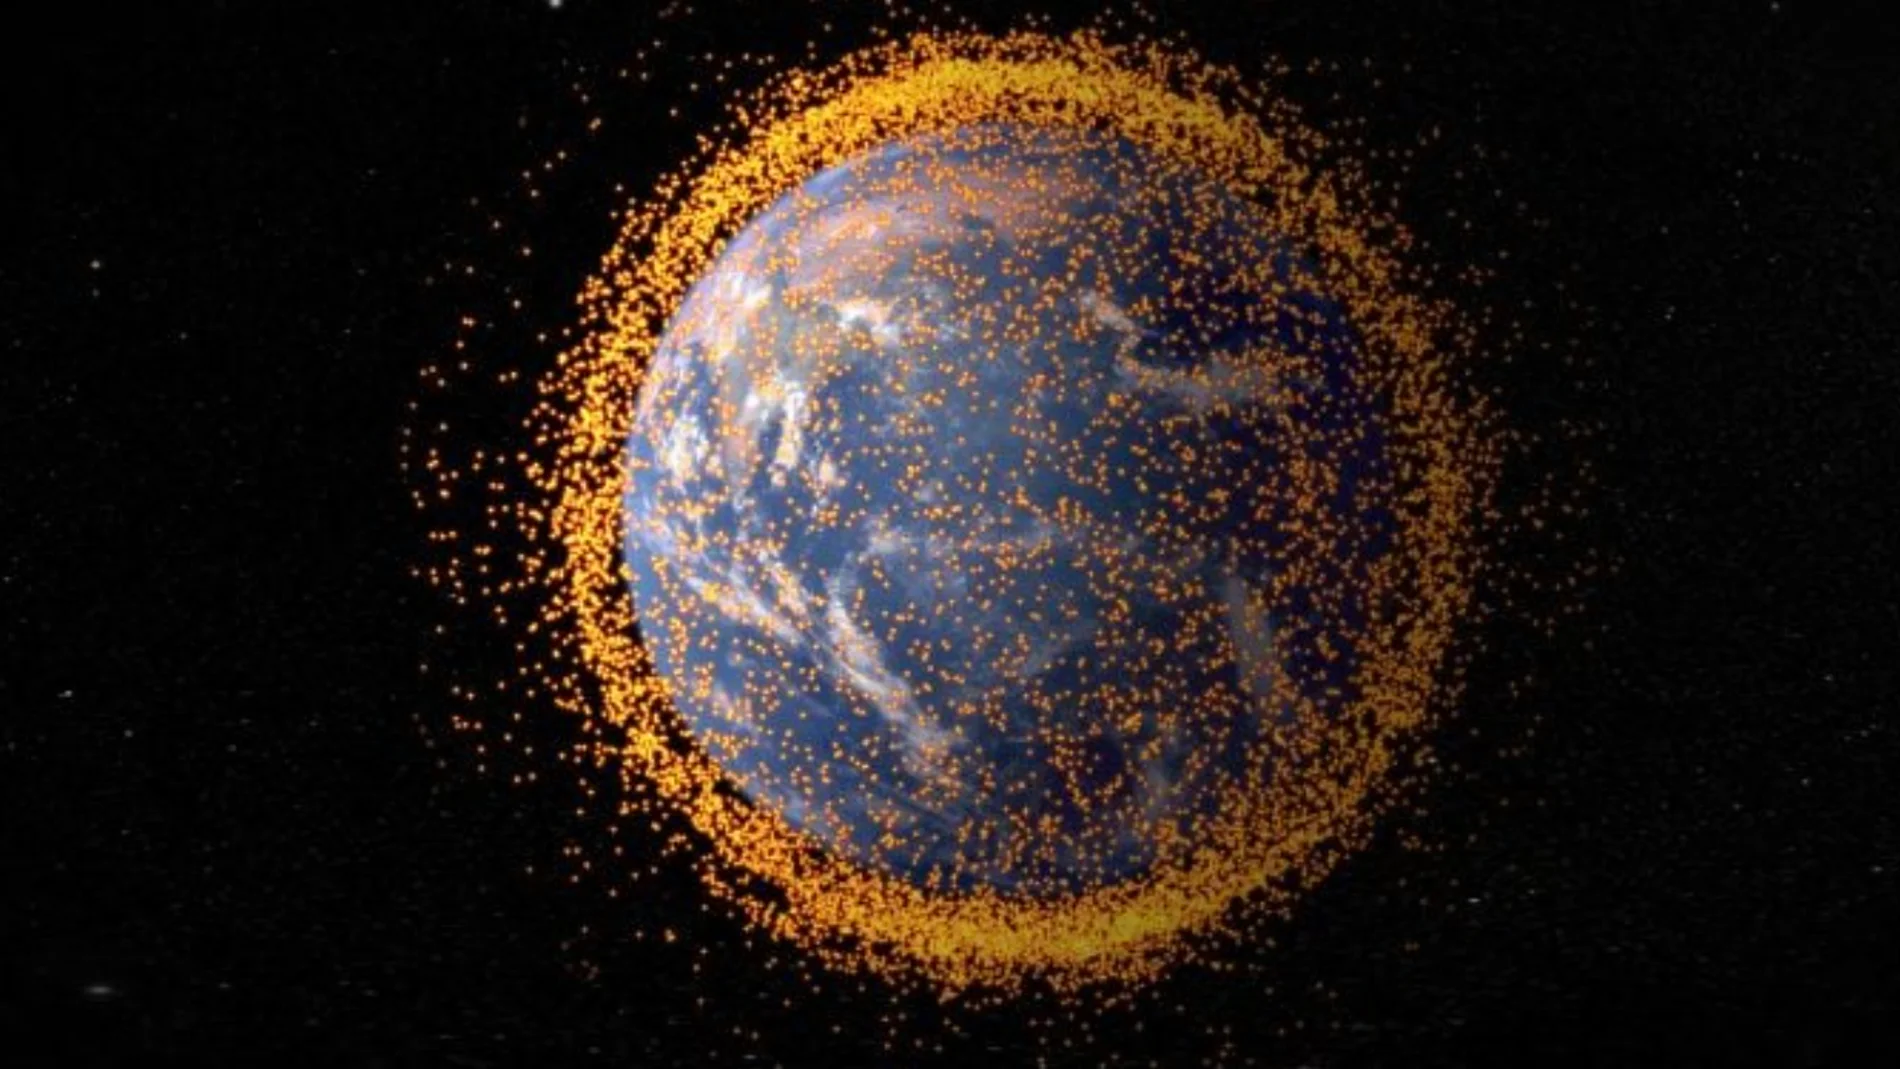
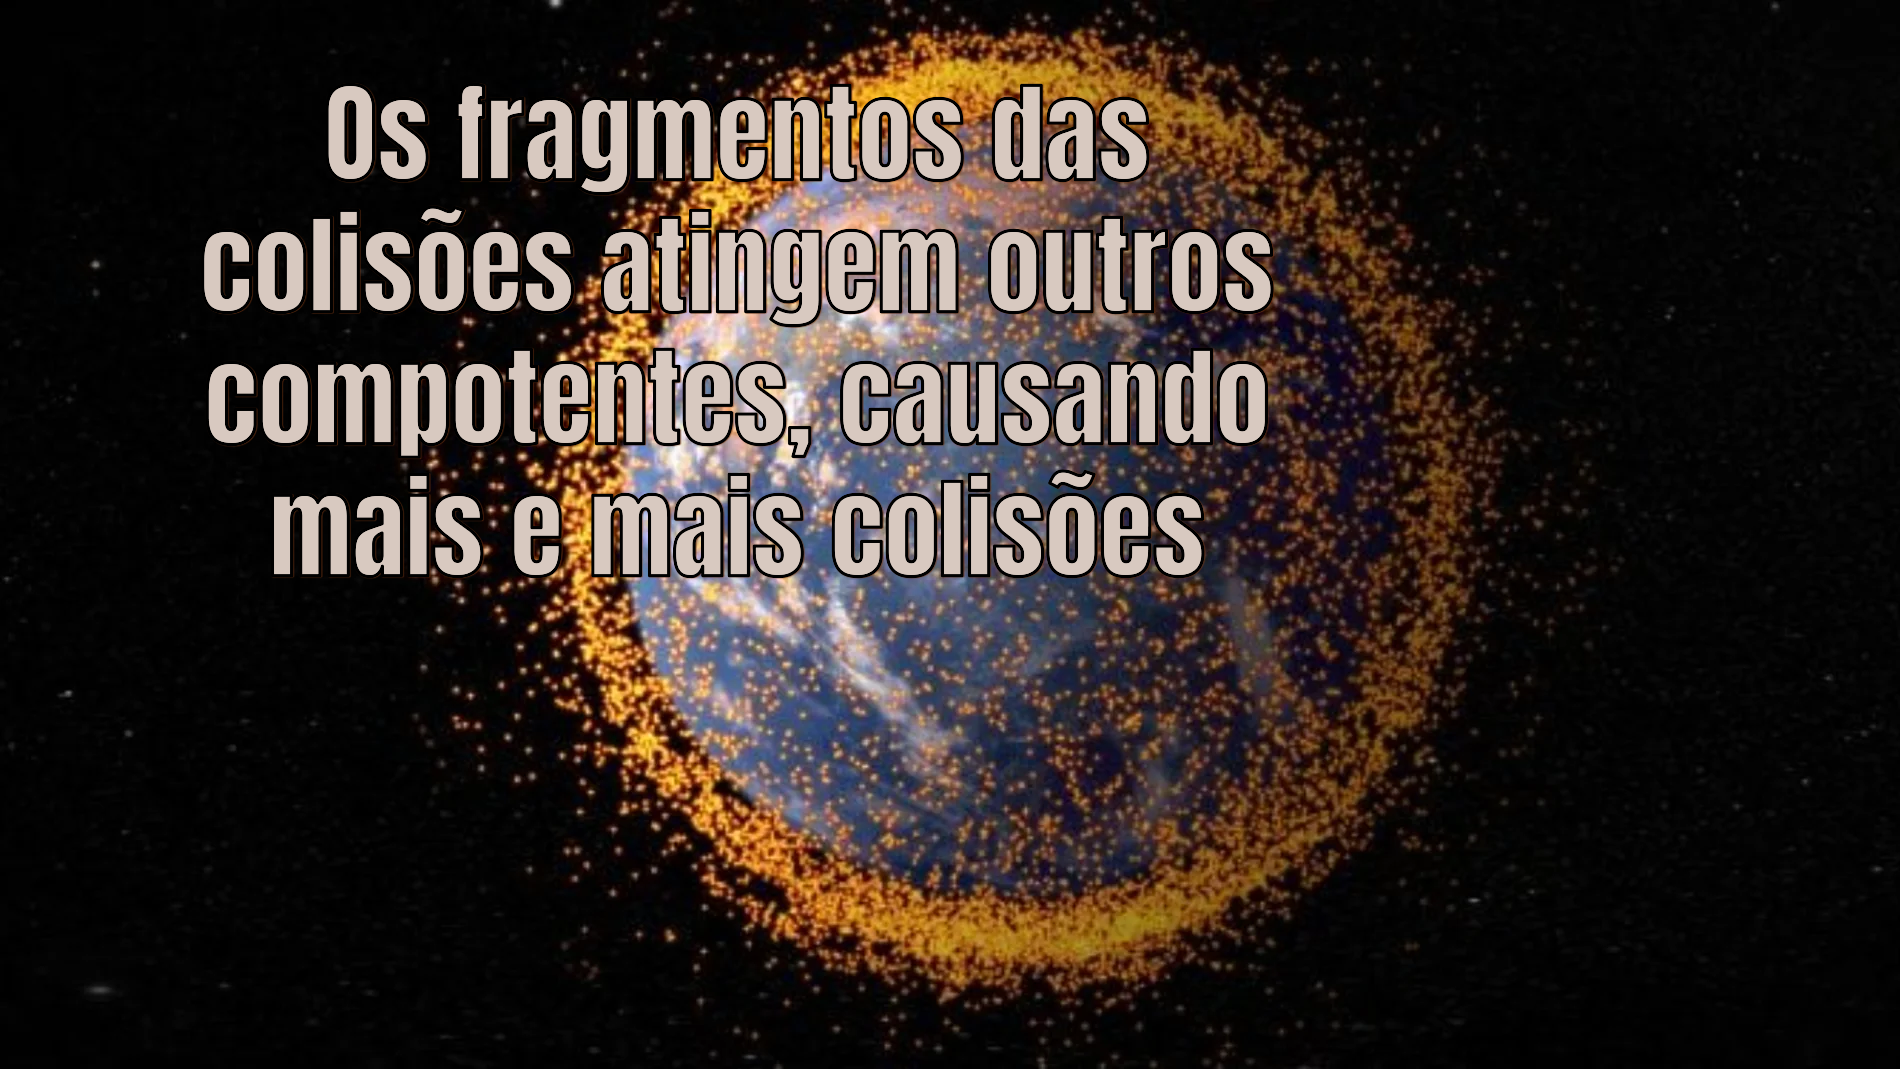
feat: estiliza o slideshow e os botões

Changed region(s): [[0.0932, 0.0617, 0.6832, 0.5557]]

diff --git a/index.html b/index.html
@@ -7,7 +7,7 @@
     <link rel="stylesheet" href="style.css">
   </head>
   <body>
-  
+
     <!-- CABEÇALHO -->
     <header class="header-container">
       <div>
@@ -15,7 +15,7 @@
         <h1 class="logo">OrbClear · Global Solution</h1>
       </div>
     </header>
-  
+
     <!-- NAVEGAÇÃO -->
     <nav>
       <div class="barra-navegacao">
@@ -37,14 +37,14 @@
         <a href="#dia-a-dia" class="nav-link">Dia a Dia</a>
       </div>
     </nav>
-  
+
     <!-- HERO -->
     <div class="hero-text">
       <h1>
         A TECNOLOGIA<br>ESPACIAL JÁ COMEÇOU<br>E VOCÊ FAZ PARTE DELA.
       </h1>
     </div>
-  
+
     <!-- CARROSSEL (órbita) -->
     <div class="scene">
       <div class="carrossel">
@@ -55,7 +55,7 @@
       </div>
       <img class="planeta" src="./imgs/terra.webp" alt="Planeta Terra vista do espaço">
     </div>
-  
+
     <!-- SEÇÃO 1 — PROBLEMA -->
     <section class="secao" id="problema">
       <h2 class="titulo">Síndrome de Kessler</h2>
@@ -67,20 +67,18 @@
           Colisões entre detritos geram mais colisões, criando uma barreira orbital que pode durar séculos.
         </p>
       </div>
+
+      <!-- SLIDESHOW -->
       <div class="slideshow">
-      
-          <img id="imagem" src="./imgs/kesler1.png" alt="slideShow"></img>
-      
+          <img class="imagem-ss" src="./imgs/kesler1.png" alt="slideShow da síndrome de Kessler"></img>
           <br>
-      
-          <button onclick="voltarSlide()">Voltar</button>
-          <button onclick="proximoSlide()">Próximo</button>
-      
+          <div class="container-botoes">
+            <button class="botao" onclick="voltarSlide()">Voltar</button>
+            <button class="botao" onclick="proximoSlide()">Próximo</button>
+          </div>
       </div>
     </section>
-  
-  
-  
+
     <!-- SEÇÃO 2 — TECNOLOGIAS -->
     <section class="secao" id="tecnologias">
       <h2 class="titulo">Tecnologias</h2>
@@ -93,7 +91,7 @@
         </p>
       </div>
     </section>
-  
+
     <!-- SEÇÃO 3 — OBJETIVOS -->
     <section class="secao" id="objetivos">
       <h2 class="titulo">Objetivos</h2>
@@ -106,7 +104,7 @@
         </p>
       </div>
     </section>
-  
+
     <!-- SEÇÃO 4 — PÚBLICO-ALVO -->
     <section class="secao" id="publico-alvo">
       <h2 class="titulo">Público-Alvo</h2>
@@ -119,7 +117,7 @@
         </p>
       </div>
     </section>
-  
+
     <!-- SEÇÃO 5 — BENEFÍCIOS -->
     <section class="secao" id="beneficios">
       <h2 class="titulo">Benefícios</h2>
@@ -132,7 +130,7 @@
         </p>
       </div>
     </section>
-  
+
     <!-- SEÇÃO 6 — DIA A DIA -->
     <section class="secao" id="dia-a-dia">
       <h2 class="titulo">Solução no Dia a Dia</h2>
@@ -145,7 +143,7 @@
         </p>
       </div>
     </section>
-  
+
     <!-- RODAPÉ -->
     <footer class="rodape">
       <div class="rodape-container">
@@ -184,7 +182,7 @@
         </div>
       </div>
     </footer>
-  
+
   </body>
   <script src="script.js"></script>
 </html>

diff --git a/style.css b/style.css
@@ -44,6 +44,24 @@ a {
     text-decoration: none;
 }
 
+button, 
+input[type="button"], 
+input[type="submit"], 
+input[type="reset"] {
+    border: none;
+    margin: 0;
+    padding: 0;
+    width: auto;
+    overflow: visible;
+    background: transparent;
+    color: inherit;
+    font: inherit;
+    line-height: normal;
+    -webkit-font-smoothing: inherit;
+    -moz-osx-font-smoothing: inherit;
+    -webkit-appearance: none;
+}
+
 /* SCROLL SUAVE */
 html {
     scroll-behavior: smooth;
@@ -334,6 +352,45 @@ nav {
     margin: 0;
 }
 
+/* SLIDE SHOW */
 .slideshow {
-    
+    display: flex;
+    flex-direction: column;
+    align-items: center;
+}
+
+.container-botoes {
+    display: flex;
+    flex-direction: row;
+    align-items: center;
+    gap: 35px;
+}
+
+.botao {
+    font-family: var(--fonte-corpo);
+    background-color: var(--cor-secundaria);
+    padding: 5px;
+    border: 1px solid white;
+    border-radius: 7px;
+    cursor: pointer;
+}
+
+.botao:hover {
+    font-size: x-large;
+}
+
+.botao:active {
+    font-size: large;
+    background-color: #3e2f80;
+    color: rgb(150, 150, 150);
+}
+
+.imagem-ss {
+    aspect-ratio: 3/2;
+    height: 350px;
+    width: auto;
+    border-radius: 7px;
+    border: 1px solid white;
+    margin-top: 70px;
+    object-fit: cover;
 }

diff --git a/script.js b/script.js
@@ -7,7 +7,7 @@ const imagens = [
 let index = 0;
 
 function mostrarSlide (){
-    document.getElementById('imagem').src = imagens[index];
+    document.getElementsByClassName('imagem-ss')[0].src = imagens[index];
 };
 function voltarSlide (){
     index--
